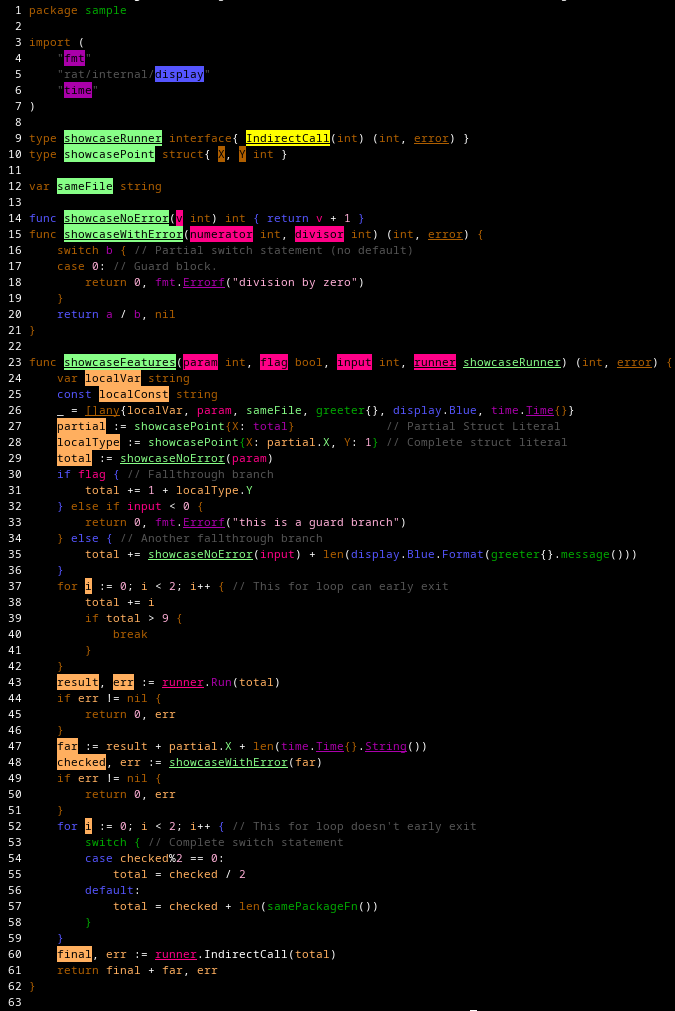
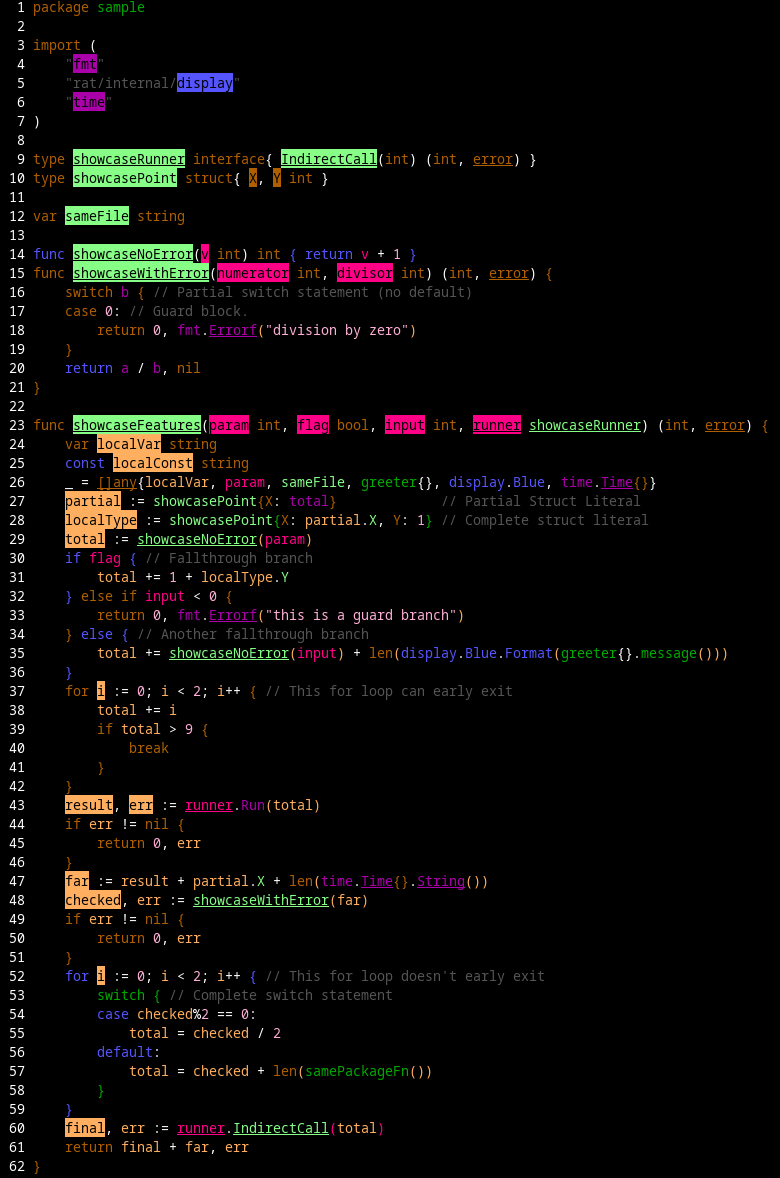
update readme and images

Changed region(s): [[0.0, 0.0, 0.9644, 1.0], [0.6222, 0.7972, 0.6533, 0.8279], [0.5289, 0.7972, 0.56, 0.8279]]

diff --git a/README.md b/README.md
@@ -64,11 +64,11 @@ The project root is the nearest parent directory containing `.git` or `go.mod`. 
 Declarations use an inverted/background style so definitions stand out from uses.
 
 - Top-level declarations use the same-file declaration style.
-- Top-level function declarations also use the same-file declaration style.
+- Function declarations use the same-file declaration style.
 - Declarations nested under top-level type declarations, such as struct fields and interface methods, use the same-file declaration style.
 - Local variable declarations inside functions use the same-function declaration style.
 - Parameters and type parameters use the parameter declaration style.
-- Other declarations fall back to their kind style: type, variable, parameter, function, package, or file.
+- Other declarations fall back to their kind style: type, variable, parameter, package, or file.
 
 References to locally declared functions are treated as same-function or same-file references according to their declaration relationship, not as a separate function color.
 
@@ -332,6 +332,8 @@ If a color seems wrong:
 - `rat` is conservative and experimental; some cross-package or dynamic cases depend on what `gopls` can resolve.
 - Interface calls and function-value calls are intentionally marked as indirect.
 - Declaration backgrounds are intentional so definitions are easy to spot.
+
+If `rat` panics while processing a file from the CLI, it prints the source with line numbers to stderr before re-panicking. Include that output when reporting a bug.
 
 ## Development Commands
 